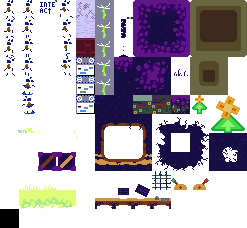
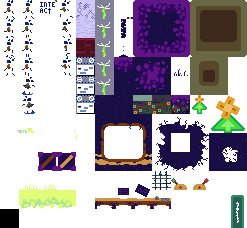
Fixed Camera and added Code Support
- Fixed camera offset not working.
- you can now make tetromino codes to trigger something

Changed region(s): [[0.9352, 0.8289, 0.9919, 1.0]]

diff --git a/functions.js b/functions.js
@@ -3,6 +3,7 @@ function start(){
 
     ctx.lineCap = "round";
     ctx.lineJoin = "round";
+    ctx.font = `bold 19px monogram`;
     //ctx.globalCompositeOperation = "lighter";
 
     changeArea(AreaAtlas.test03);
@@ -96,6 +97,10 @@ function changeArea(level, x = -1, y = -1){
 
 function gameUpdate(){
     ctx.clearRect(0,0,canvasElement.width, canvasElement.height);
+    while(controlSeq.length > 64){
+        controlSeq = controlSeq.slice(-64);
+    }
+
     //player.real.x += ( -btn(ControlSchemes.Player1, "left") + btn(ControlSchemes.Player1, "right")) * Time.deltaTime * 0.1;
     //player.real.y += ( -btn(ControlSchemes.Player1, "up") + btn(ControlSchemes.Player1, "down")) * Time.deltaTime * 0.1;
     
@@ -120,24 +125,23 @@ function gameUpdate(){
     //console.log(movementVec.x, movementVec.y);
     Camera.real.x += movementVec.x * Time.deltaTime * 0.05;
     Camera.real.z += movementVec.y * Time.deltaTime * 0.05;
-    ctx.fillText(Camera.rotation.toString(), 64, 64);
-    loadedBlocks[loadedBlocks.length - 1] = new Block(Camera.x, Camera.y, Camera.z, false, TileAtlas.testElements.cube);
-
+    //loadedBlocks[loadedBlocks.length - 1] = new Block(Camera.x, Camera.y, Camera.z, false, TileAtlas.testElements.cube);
+    
     if(!mouse[0] && key("KeyA") + key("KeyD") === 0){
         //Camera.rotation = Camera.step * ;
         Camera.rotation += ( Math.round(Camera.step * 90) - Camera.rotation) * 0.01 * Time.deltaTime;
     }else{
         Camera.step = Math.round(Camera.rotation / 90);
     }
-
-
+    
+    
     drawLoadedBlocks();
     //drawLevel(-Camera.x, -Camera.y, currentLevel, true);
-
+    
     if(key("Space") === 1){
         particleList.push(new BasicParticle(Players[0].x + 9.5, Players[0].y + 9.5, (Math.random() - 0.5) * 6, Math.random() * 3, 1000, ParticleAtlas.effects.green));
     }
-
+    
     for(let i = 0; i < particleList.length; i++){ // TODO : Fix the particle deletion, perhaps look at the "missed beat" game
         particleList[i].tick();
         particleList[i].draw();
@@ -146,10 +150,13 @@ function gameUpdate(){
         }
         //console.log(particleList[i]);
     }
-
+    
     //worldArrow(player2.x + 8, player2.y + 8, 95, 95, "#f0f", "#af2");
-
+    
     if(devToolsEnabled){
+        ctx.fillText(Camera.rotation.toString(), 64, 64);
+        ctx.fillText(`Camera: ${Camera.x}, ${Camera.y}, ${Camera.z}`, 16, 190);
+        ctx.fillText(controlSeq, 0, 180, 190);
         ctx.fillStyle = "#fff";
         if(key("ShiftLeft")){
             let rounded = {x : Math.floor((mouse.x + Camera.real.x) / 19) * 19, y : Math.floor((mouse.y + Camera.real.y) / 19) * 19};
@@ -160,7 +167,6 @@ function gameUpdate(){
         }
     }
 
-    ctx.fillText(`Camera: ${Camera.x}, ${Camera.y}, ${Camera.z}`, 16, 190);
 
     // Backdrop Paralax Effect
     canvasElement.style.backgroundPosition = `${ Camera.real.x * -0.5 }px ${ Camera.real.y * -0.5 }px`;
@@ -171,9 +177,25 @@ function gameUpdate(){
 function onAnyKeyDown(){
     if(key("KeyQ")){
         Camera.step -= 1;
+        controlSeq = controlSeq + "LT";
     }
     if(key("KeyE")){
         Camera.step += 1;
+        controlSeq = controlSeq + "RT";
+    }
+}
+function onAnyKeyUp(e){
+    if(e.code === "KeyA"){
+        controlSeq = controlSeq + "L";
+    }
+    if(e.code === "KeyD"){
+        controlSeq = controlSeq + "R";
+    }
+    if(e.code === "KeyW"){
+        controlSeq = controlSeq + "U";
+    }
+    if(e.code === "KeyS"){
+        controlSeq = controlSeq + "D";
     }
 }
 
@@ -231,6 +253,12 @@ function sortLoadedBlocks(){
 function drawLoadedBlocks(){
     let sortedBlocks = sortLoadedBlocks();
 
+    if(currentLevel.entities !== undefined){
+        for(let i = 0; i < currentLevel.entities.length; i++){
+            currentLevel.entities[i].tick();
+        }
+    }
+
     for(let i = 0; i < sortedBlocks.length; i++){
         /*if(sortedBlocks[i].camSpace.y > mouse.y){
             return;
@@ -238,7 +266,7 @@ function drawLoadedBlocks(){
         //ctx.fillStyle = `rgb(${sortedBlocks[i].camSpace.y}, ${sortedBlocks[i].camSpace.y}, ${sortedBlocks[i].camSpace.y}, 0.5)`;
         drawTileRegion(
             Math.round(sortedBlocks[i].camSpace.x + canvasHalfWidth),
-            Math.round(sortedBlocks[i].y + canvasHalfHeight),
+            Math.round(sortedBlocks[i].y - Camera.y + canvasHalfHeight),
             sortedBlocks[i].sprite,
             ctx,
             false

diff --git a/data.js b/data.js
@@ -2,6 +2,7 @@
 let currentLevel;
 let loadedBlocks = [];
 let tempCollison = [];
+let controlSeq = "";
 
 const devToolsEnabled = true;
 
@@ -388,6 +389,11 @@ const keySets = {
         "@" : {
             "region" : new Region(38, 152),
             "solid" : true
+        },
+
+        "C" : {
+            "region" : new Region(228, 190, 19, 19*2),
+            "solid" : false
         }
     },
 
@@ -494,8 +500,14 @@ const AreaAtlas = {
             -1,  0,  1, "2",
              0,  0,  1, "2",
              1,  0,  1, "2",
-             0,  1,  0, "2",
+             0,  1,  0, "0",
+             0.5,  -2, 1, "C",
              1,  0,  1, "2",
+        ],
+        "entities" : [
+            new TetrominoCodeHandler( () => {
+                console.log("you got it 2!!!!!");
+            }, "LLTLRRTDULT" )
         ]
     }
 }

diff --git a/classes.js b/classes.js
@@ -884,3 +884,19 @@ class Block { // y is up
         return Math2.rot( this.real.x - Camera.real.x, this.real.z - Camera.real.z, Camera.rotation );
     }
 }
+
+class TetrominoCodeHandler extends EntityClass{
+    constructor(onTrigger = () => {console.log("Got The Code! Good On Ya!");}, code = "RTRTLTRTRTLTLTLT"){
+        super(0, 0, TetrominoCodeHandler );
+        this.code = code;
+        this.triggered = false;
+        this.onTrigger = onTrigger;
+    }
+
+    tick(){
+        if( !this.triggered && controlSeq.includes(this.code) ){
+            this.triggered = true;
+            this.onTrigger();
+        }
+    }
+}

diff --git a/setup.js b/setup.js
@@ -95,6 +95,7 @@ const rad2deg = 180 / Math.PI;
     document.addEventListener('keyup', function(e){
         keys[e.code] = false;
         keysReleaseTime[e.code] = Time.now;
+        onAnyKeyUp(e);
     });
 
     function key(keyCode){
